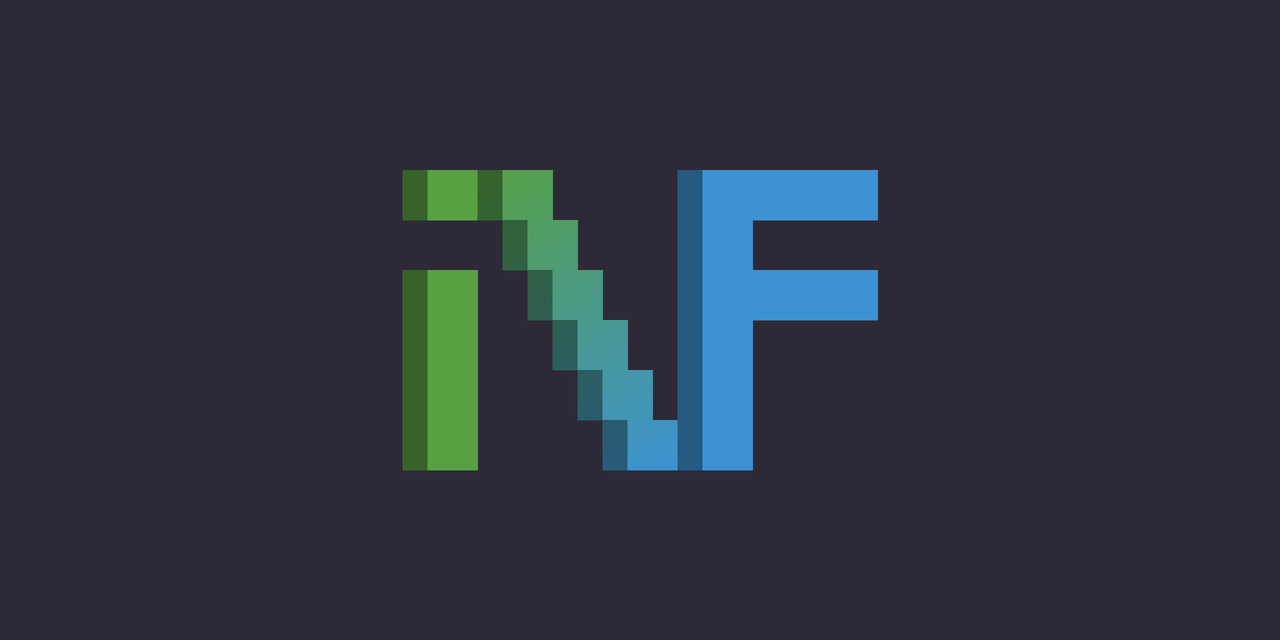
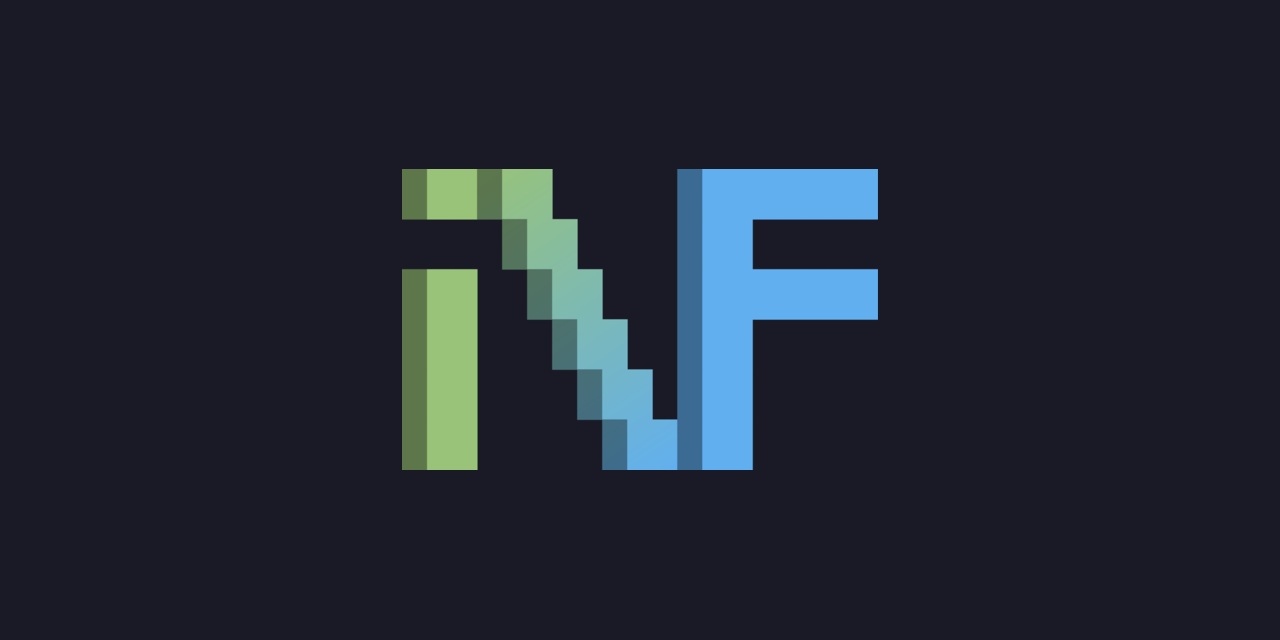
docs: move the mark to One Dark
The distribution's theme is One Dark, so the mark was borrowing Neovim's
green and blue for no reason other than where the grid came from. The
construction is untouched; only the palette moves.

One Dark's accents are built for a dark background and measure 2.0 and
2.4 against white, under the 3:1 a logo needs, so the mark ships twice.
logo.svg keeps its name and holds the light-safe pair, hue and saturation
intact with the value dropped until both clear 3.2 — the same contrast
the Neovim colours had. logo-dark.svg keeps #98c379 and #61afef for dark
backgrounds, and a picture element picks between them.

The social previews move to #1a1a26, the theme's own background, rather
than the #2e2936 they were on.

Changed region(s): [[0.3125, 0.25, 0.6875, 0.75]]

diff --git a/profile/README.md b/profile/README.md
@@ -1,5 +1,8 @@
 <p align="center">
-  <img src="https://raw.githubusercontent.com/if-then-nvim/.github/main/assets/logo.svg" width="220" alt="if">
+  <picture>
+    <source media="(prefers-color-scheme: dark)" srcset="https://raw.githubusercontent.com/if-then-nvim/.github/main/assets/logo-dark.svg">
+    <img src="https://raw.githubusercontent.com/if-then-nvim/.github/main/assets/logo.svg" width="220" alt="if">
+  </picture>
 </p>
 
 <p align="center">
